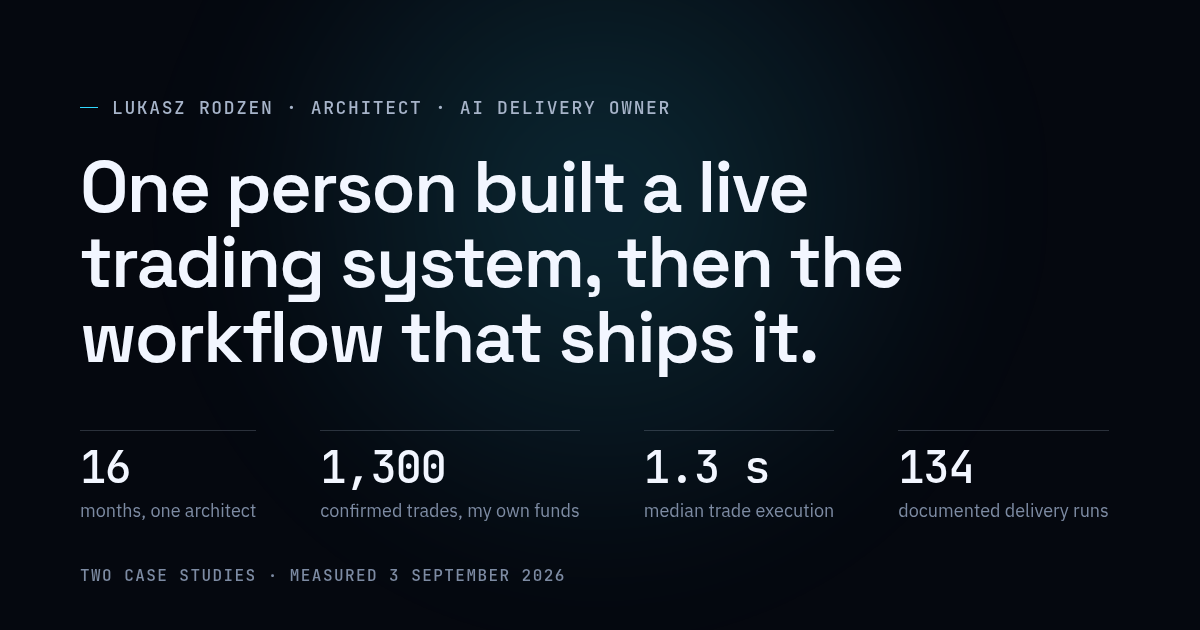
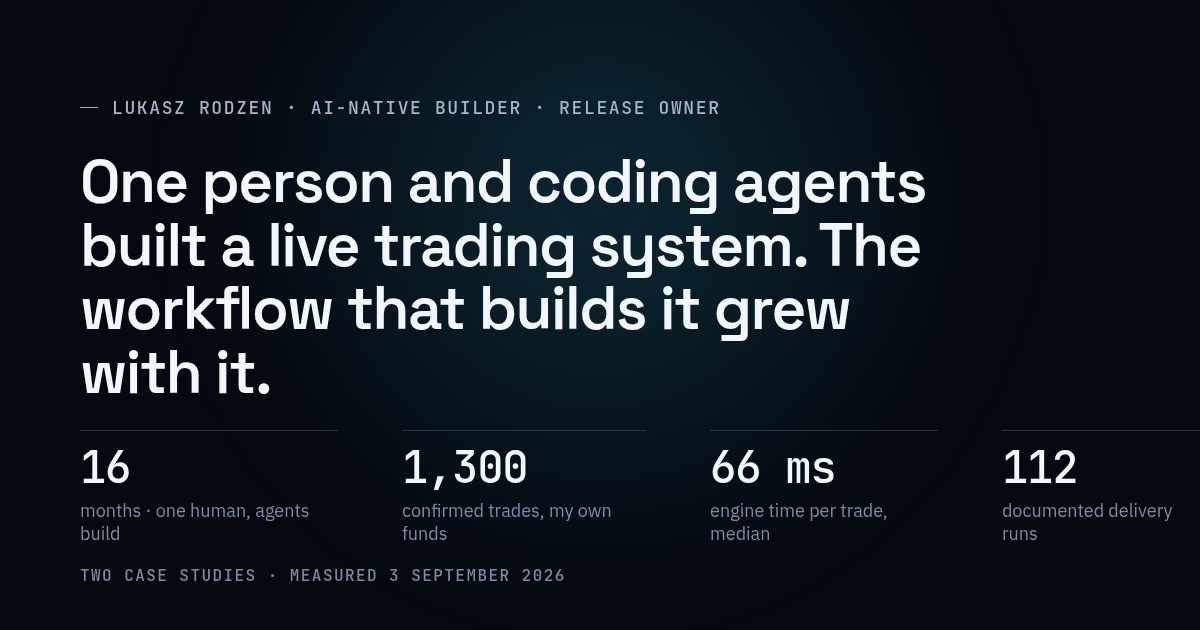
Landing: the workflow grew while building the system, not after; social card updated

diff --git a/index.html b/index.html
@@ -457,12 +457,12 @@ details.more .inner{grid-template-columns:1fr}
 .authorship .label{margin-bottom:.4rem}
 .authorship p{color:var(--ink-2);font-size:var(--fs-cap);line-height:1.55}
 </style></head><body class="land"><div class="ground"></div><a class="skip" href="#content">Skip to content</a><nav class="nav" aria-label="Primary"><div class="wrap"><a class="brand" href="index.html"><b>Lukasz Rodzen</b><span class="x"> · case studies</span></a>
-<div class="tabs"><a href="index.html" class="on" aria-label="Home" aria-current=page><span class="num">Home</span><span class="lbl"></span></a><a href="the-system.html" class="" aria-label="Case study 1: The system"><span class="num">01</span><span class="lbl">The system</span></a><a href="how-i-ship.html" class="" aria-label="Case study 2: How I ship"><span class="num">02</span><span class="lbl">How I ship</span></a></div></div><div class="bar"></div></nav><main id="content"><section class="hero"><div class="glow"></div><div class="wrap" data-stagger><div class="rv"><div class="kicker">AI-native builder · release owner · Poland, remote</div></div><h1 class="rv">One person and coding agents built a live trading system, then the workflow that ships it.</h1><p class="lead rv">I designed and operate an automated trading system that runs on Solana with my own funds, and the AI delivery workflow that ships every change to it. Two case studies: one for product and engineering readers, one for anyone hiring AI-native builders.</p><p class="cap rv" style="margin-top:1rem">Personal engineering project. It trades only my own funds: no client assets, no investment service, no advice.</p>
+<div class="tabs"><a href="index.html" class="on" aria-label="Home" aria-current=page><span class="num">Home</span><span class="lbl"></span></a><a href="the-system.html" class="" aria-label="Case study 1: The system"><span class="num">01</span><span class="lbl">The system</span></a><a href="how-i-ship.html" class="" aria-label="Case study 2: How I ship"><span class="num">02</span><span class="lbl">How I ship</span></a></div></div><div class="bar"></div></nav><main id="content"><section class="hero"><div class="glow"></div><div class="wrap" data-stagger><div class="rv"><div class="kicker">AI-native builder · release owner · Poland, remote</div></div><h1 class="rv">One person and coding agents built a live trading system. The workflow that builds it grew with it.</h1><p class="lead rv">I operate an automated trading system on Solana with my own funds. Coding agents built it through a delivery workflow that started as a nine-line file and grew, run by run and failure by failure, into a system of its own. Two case studies: the product, and the workflow.</p><p class="cap rv" style="margin-top:1rem">Personal engineering project. It trades only my own funds: no client assets, no investment service, no advice.</p>
 <div class="stats hero-stats rv" style="margin-top:2rem"><div class="stat"><span class="n">16</span><span class="l">months · one human, agents build</span></div><div class="stat"><span class="n">1,300</span><span class="l">confirmed trades, my own funds</span></div><div class="stat"><span class="n">66 ms</span><span class="l">engine time per trade, median</span></div><div class="stat"><span class="n">112</span><span class="l">documented delivery runs</span></div></div>
 <div class="actions rv"><a class="btn primary" href="the-system.html">01 · The system <span class="a">→</span></a><a class="btn" href="how-i-ship.html">02 · How I ship <span class="a">→</span></a></div>
 <div class="authorship rv"><div class="label">A note on authorship</div><p>I am not a backend, Rust or smart-contract engineer and do not represent myself as one. I define what the system must do, its boundaries and acceptance criteria; I direct coding agents through research, design, implementation and review; I validate the resulting behaviour and own the release decision. The implementation-level expertise described below is substantially agent-mediated.</p></div></div></section>
 <section class="sec"><div class="wrap"><div class="who rv"><div><div class="name">Lukasz Rodzen</div><div class="role">product owner · release owner · operator</div><div class="contact">Poland · remote</div></div><p>I own the product intent, the system boundaries and constraints, the acceptance criteria, the release decision and production verification. AI agents provide much of the implementation-level technical depth: they research, propose designs, write the code and review one another independently. I resolve their disagreements through evidence and decide what ships. I do not claim the unaided technical depth of a senior backend or Rust engineer.</p></div><details class="more rv"><summary><span class="def">Populations and dates</span><span class="alt">Show less</span><span class="c" aria-hidden="true"></span></summary><div class="dbody"><div><div class="inner"><p class="fn rv">A trade here is one position. 2,843 on-chain signatures stand behind the 1,300 positions, 1,685 buy legs and 1,158 sell legs, because a position can close in several legs. Engine time is the engine&#x27;s own work per trade, from price quote to submitted transaction; 66 ms is the median across the 1,228 buys with stage timings, 90% of them under 200 ms. From signal to confirmation on chain the median is 1.3 s, most of it the blockchain&#x27;s own confirmation (625 ms median) and the message&#x27;s delivery from Telegram. Runs from 26 March to 1 September 2026, numbered 1 to 134. Measured 3 September 2026.</p></div></div></div></details></div></section>
-<section class="sec"><div class="wrap"><div class="pick" data-stagger><a class="card rv" href="the-system.html"><div class="banner mini rv"><svg viewBox="0 0 560 120" xmlns="http://www.w3.org/2000/svg" role="img" aria-label="Signals to a capped on-chain trade"><defs><linearGradient id="msw" gradientUnits="userSpaceOnUse" x1="0" y1="0" x2="560" y2="0"><stop offset="0" stop-color="#a877ff"/><stop offset=".55" stop-color="#31d9ff"/><stop offset="1" stop-color="#58e7ad"/></linearGradient><linearGradient id="msh" gradientUnits="userSpaceOnUse" x1="0" y1="0" x2="560" y2="0"><stop offset="0" stop-color="#a877ff" stop-opacity=".7"/><stop offset=".5" stop-color="#31d9ff" stop-opacity=".8"/><stop offset="1" stop-color="#58e7ad" stop-opacity=".6"/></linearGradient><radialGradient id="msg"><stop offset="0" stop-color="#31d9ff" stop-opacity=".22"/><stop offset="1" stop-color="#31d9ff" stop-opacity="0"/></radialGradient><radialGradient id="msgv"><stop offset="0" stop-color="#a877ff" stop-opacity=".18"/><stop offset="1" stop-color="#a877ff" stop-opacity="0"/></radialGradient><filter id="msb" x="-50%" y="-50%" width="200%" height="200%"><feGaussianBlur stdDeviation="4"/></filter><pattern id="msd" width="24" height="24" patternUnits="userSpaceOnUse"><circle cx="1" cy="1" r=".8" fill="#a7b4c9" fill-opacity=".16"/></pattern></defs><rect width="560" height="120" fill="url(#msd)"/><circle cx="112" cy="60" r="108" fill="url(#msgv)"/><circle cx="476" cy="60" r="108" fill="url(#msg)"/><rect x="20" y="50" width="76" height="20" rx="10" fill="#0b1220" fill-opacity=".9" stroke="#a877ff" stroke-opacity=".45"/><text x="58" y="63.5" text-anchor="middle" font-size="9.5" letter-spacing="1" fill="#a877ff" font-family="JetBrains Mono,monospace">SIGNALS</text><polyline points="96,60 140,60" fill="none" stroke="url(#msw)" stroke-width="4.5" stroke-opacity=".18" filter="url(#msb)" stroke-linejoin="round"/><polyline points="96,60 140,60" fill="none" stroke="url(#msw)" stroke-width="1.5" stroke-linejoin="round"/><rect x="140" y="32" width="130" height="56" rx="10" fill="#0b1220" fill-opacity=".92" stroke="url(#msh)" stroke-opacity=".75"/><rect x="152" y="32" width="106" height="1" fill="#31d9ff" fill-opacity=".9"/><text x="154" y="54" font-size="11" font-weight="500" fill="#f2f6ff" font-family="IBM Plex Sans,sans-serif">Two servers</text><text x="154" y="70" font-size="9.5" fill="#7d8ba3" font-family="JetBrains Mono,monospace">Python · Rust</text><polyline points="270,60 312,60" fill="none" stroke="url(#msw)" stroke-width="4.5" stroke-opacity=".18" filter="url(#msb)" stroke-linejoin="round"/><polyline points="270,60 312,60" fill="none" stroke="url(#msw)" stroke-width="1.5" stroke-linejoin="round"/><rect x="312" y="32" width="120" height="56" rx="10" fill="#0b1220" fill-opacity=".92" stroke="url(#msh)" stroke-opacity=".75"/><rect x="324" y="32" width="96" height="1" fill="#31d9ff" fill-opacity=".9"/><text x="326" y="54" font-size="11" font-weight="500" fill="#f2f6ff" font-family="IBM Plex Sans,sans-serif">Rust engine</text><text x="326" y="70" font-size="9.5" fill="#7d8ba3" font-family="JetBrains Mono,monospace">66 ms</text><polyline points="432,60 470,60" fill="none" stroke="url(#msw)" stroke-width="4.5" stroke-opacity=".18" filter="url(#msb)" stroke-linejoin="round"/><polyline points="432,60 470,60" fill="none" stroke="url(#msw)" stroke-width="1.5" stroke-linejoin="round"/><rect x="470" y="32" width="72" height="56" rx="10" fill="#0b1220" fill-opacity=".92" stroke="url(#msh)" stroke-opacity=".75"/><rect x="482" y="32" width="48" height="1" fill="#58e7ad" fill-opacity=".9"/><text x="484" y="54" font-size="11" font-weight="500" fill="#f2f6ff" font-family="IBM Plex Sans,sans-serif">Solana</text><text x="484" y="70" font-size="9.5" fill="#7d8ba3" font-family="JetBrains Mono,monospace">capped</text></svg></div><div class="label">Case study 01 · for product and engineering readers</div><h2>The system</h2><p>A production system that turns public market signals into capped, auditable on-chain trades, with my own funds only: 66 ms of engine time per trade, about 1.3 seconds from signal to confirmation. Two servers, a custom Rust engine, and on-chain limits a trading key cannot bypass.</p><div class="nums"><div><span class="n">66 ms</span><span class="l">engine time per trade, median</span></div><div><span class="n">2,843</span><span class="l">on-chain signatures, verifiable</span></div></div><span class="arrow">Open case study 1 <span class="a">→</span></span></a><a class="card rv" href="how-i-ship.html"><div class="banner mini rv"><svg viewBox="0 0 560 120" xmlns="http://www.w3.org/2000/svg" role="img" aria-label="Six stages, three of them my decision"><defs><linearGradient id="mlw" gradientUnits="userSpaceOnUse" x1="0" y1="0" x2="560" y2="0"><stop offset="0" stop-color="#a877ff"/><stop offset=".55" stop-color="#31d9ff"/><stop offset="1" stop-color="#58e7ad"/></linearGradient><linearGradient id="mlh" gradientUnits="userSpaceOnUse" x1="0" y1="0" x2="560" y2="0"><stop offset="0" stop-color="#a877ff" stop-opacity=".7"/><stop offset=".5" stop-color="#31d9ff" stop-opacity=".8"/><stop offset="1" stop-color="#58e7ad" stop-opacity=".6"/></linearGradient><radialGradient id="mlg"><stop offset="0" stop-color="#31d9ff" stop-opacity=".22"/><stop offset="1" stop-color="#31d9ff" stop-opacity="0"/></radialGradient><radialGradient id="mlgv"><stop offset="0" stop-color="#a877ff" stop-opacity=".18"/><stop offset="1" stop-color="#a877ff" stop-opacity="0"/></radialGradient><filter id="mlb" x="-50%" y="-50%" width="200%" height="200%"><feGaussianBlur stdDeviation="4"/></filter><pattern id="mld" width="24" height="24" patternUnits="userSpaceOnUse"><circle cx="1" cy="1" r=".8" fill="#a7b4c9" fill-opacity=".16"/></pattern></defs><rect width="560" height="120" fill="url(#mld)"/><circle cx="280" cy="60" r="108" fill="url(#mlg)"/><polyline points="60,60 500,60" fill="none" stroke="url(#mlw)" stroke-width="4.5" stroke-opacity=".18" filter="url(#mlb)" stroke-linejoin="round"/><polyline points="60,60 500,60" fill="none" stroke="url(#mlw)" stroke-width="1.5" stroke-linejoin="round"/><circle cx="60" cy="60" r="4" fill="#05080f" stroke="#a7b4c9" stroke-width="1.5"/><text x="60" y="86" text-anchor="middle" font-size="8.5" letter-spacing="1" fill="#7d8ba3" font-family="JetBrains Mono,monospace">UNDERSTAND</text><circle cx="148" cy="60" r="10.8" fill="#31d9ff" fill-opacity=".28" filter="url(#mlb)"/><circle cx="148" cy="60" r="4.5" fill="#31d9ff"/><text x="148" y="86" text-anchor="middle" font-size="8.5" letter-spacing="1" fill="#31d9ff" font-family="JetBrains Mono,monospace">ROUTE</text><circle cx="236" cy="60" r="4" fill="#05080f" stroke="#a7b4c9" stroke-width="1.5"/><text x="236" y="86" text-anchor="middle" font-size="8.5" letter-spacing="1" fill="#7d8ba3" font-family="JetBrains Mono,monospace">PLAN</text><circle cx="324" cy="60" r="10.8" fill="#31d9ff" fill-opacity=".28" filter="url(#mlb)"/><circle cx="324" cy="60" r="4.5" fill="#31d9ff"/><text x="324" y="86" text-anchor="middle" font-size="8.5" letter-spacing="1" fill="#31d9ff" font-family="JetBrains Mono,monospace">BUILD</text><circle cx="412" cy="60" r="4" fill="#05080f" stroke="#a7b4c9" stroke-width="1.5"/><text x="412" y="86" text-anchor="middle" font-size="8.5" letter-spacing="1" fill="#7d8ba3" font-family="JetBrains Mono,monospace">REVIEW</text><circle cx="500" cy="60" r="10.8" fill="#31d9ff" fill-opacity=".28" filter="url(#mlb)"/><circle cx="500" cy="60" r="4.5" fill="#31d9ff"/><text x="500" y="86" text-anchor="middle" font-size="8.5" letter-spacing="1" fill="#31d9ff" font-family="JetBrains Mono,monospace">DECIDE</text><text x="60" y="30" text-anchor="start" font-size="8.5" letter-spacing="1" fill="#7d8ba3" font-family="JetBrains Mono,monospace">THREE DECISIONS ARE MINE</text></svg></div><div class="label">Case study 02 · for anyone hiring AI-native builders</div><h2>How I ship</h2><p>One AI coordinates the job; specialist agents research, plan, build and test it; models from two other vendors challenge the work before anything risky ships. Ten phases, 62 steps, 34 gates, and a memory loop that turns failures into rules, across 112 documented runs.</p><div class="nums"><div><span class="n">112</span><span class="l">documented runs</span></div><div><span class="n">3</span><span class="l">AI vendors on every review</span></div></div><span class="arrow">Open case study 2 <span class="a">→</span></span></a></div></div></section></main><footer class="foot"><div class="wrap"><p>Specified, reviewed and released by Lukasz Rodzen. Implemented by AI models under the delivery workflow in case study 2. Numbers measured on the production system, the run archive and git, 3 September 2026. Replay and simulation figures are analytical outputs, not returns.</p><p>Poland · remote · 2026</p></div></footer><script>
+<section class="sec"><div class="wrap"><div class="pick" data-stagger><a class="card rv" href="the-system.html"><div class="banner mini rv"><svg viewBox="0 0 560 120" xmlns="http://www.w3.org/2000/svg" role="img" aria-label="Signals to a capped on-chain trade"><defs><linearGradient id="msw" gradientUnits="userSpaceOnUse" x1="0" y1="0" x2="560" y2="0"><stop offset="0" stop-color="#a877ff"/><stop offset=".55" stop-color="#31d9ff"/><stop offset="1" stop-color="#58e7ad"/></linearGradient><linearGradient id="msh" gradientUnits="userSpaceOnUse" x1="0" y1="0" x2="560" y2="0"><stop offset="0" stop-color="#a877ff" stop-opacity=".7"/><stop offset=".5" stop-color="#31d9ff" stop-opacity=".8"/><stop offset="1" stop-color="#58e7ad" stop-opacity=".6"/></linearGradient><radialGradient id="msg"><stop offset="0" stop-color="#31d9ff" stop-opacity=".22"/><stop offset="1" stop-color="#31d9ff" stop-opacity="0"/></radialGradient><radialGradient id="msgv"><stop offset="0" stop-color="#a877ff" stop-opacity=".18"/><stop offset="1" stop-color="#a877ff" stop-opacity="0"/></radialGradient><filter id="msb" x="-50%" y="-50%" width="200%" height="200%"><feGaussianBlur stdDeviation="4"/></filter><pattern id="msd" width="24" height="24" patternUnits="userSpaceOnUse"><circle cx="1" cy="1" r=".8" fill="#a7b4c9" fill-opacity=".16"/></pattern></defs><rect width="560" height="120" fill="url(#msd)"/><circle cx="112" cy="60" r="108" fill="url(#msgv)"/><circle cx="476" cy="60" r="108" fill="url(#msg)"/><rect x="20" y="50" width="76" height="20" rx="10" fill="#0b1220" fill-opacity=".9" stroke="#a877ff" stroke-opacity=".45"/><text x="58" y="63.5" text-anchor="middle" font-size="9.5" letter-spacing="1" fill="#a877ff" font-family="JetBrains Mono,monospace">SIGNALS</text><polyline points="96,60 140,60" fill="none" stroke="url(#msw)" stroke-width="4.5" stroke-opacity=".18" filter="url(#msb)" stroke-linejoin="round"/><polyline points="96,60 140,60" fill="none" stroke="url(#msw)" stroke-width="1.5" stroke-linejoin="round"/><rect x="140" y="32" width="130" height="56" rx="10" fill="#0b1220" fill-opacity=".92" stroke="url(#msh)" stroke-opacity=".75"/><rect x="152" y="32" width="106" height="1" fill="#31d9ff" fill-opacity=".9"/><text x="154" y="54" font-size="11" font-weight="500" fill="#f2f6ff" font-family="IBM Plex Sans,sans-serif">Two servers</text><text x="154" y="70" font-size="9.5" fill="#7d8ba3" font-family="JetBrains Mono,monospace">Python · Rust</text><polyline points="270,60 312,60" fill="none" stroke="url(#msw)" stroke-width="4.5" stroke-opacity=".18" filter="url(#msb)" stroke-linejoin="round"/><polyline points="270,60 312,60" fill="none" stroke="url(#msw)" stroke-width="1.5" stroke-linejoin="round"/><rect x="312" y="32" width="120" height="56" rx="10" fill="#0b1220" fill-opacity=".92" stroke="url(#msh)" stroke-opacity=".75"/><rect x="324" y="32" width="96" height="1" fill="#31d9ff" fill-opacity=".9"/><text x="326" y="54" font-size="11" font-weight="500" fill="#f2f6ff" font-family="IBM Plex Sans,sans-serif">Rust engine</text><text x="326" y="70" font-size="9.5" fill="#7d8ba3" font-family="JetBrains Mono,monospace">66 ms</text><polyline points="432,60 470,60" fill="none" stroke="url(#msw)" stroke-width="4.5" stroke-opacity=".18" filter="url(#msb)" stroke-linejoin="round"/><polyline points="432,60 470,60" fill="none" stroke="url(#msw)" stroke-width="1.5" stroke-linejoin="round"/><rect x="470" y="32" width="72" height="56" rx="10" fill="#0b1220" fill-opacity=".92" stroke="url(#msh)" stroke-opacity=".75"/><rect x="482" y="32" width="48" height="1" fill="#58e7ad" fill-opacity=".9"/><text x="484" y="54" font-size="11" font-weight="500" fill="#f2f6ff" font-family="IBM Plex Sans,sans-serif">Solana</text><text x="484" y="70" font-size="9.5" fill="#7d8ba3" font-family="JetBrains Mono,monospace">capped</text></svg></div><div class="label">Case study 01 · the product, for product and engineering readers</div><h2>The system</h2><p>A production system that turns public market signals into capped, auditable on-chain trades, with my own funds only: 66 ms of engine time per trade, about 1.3 seconds from signal to confirmation. Two servers, a custom Rust engine, and on-chain limits a trading key cannot bypass.</p><div class="nums"><div><span class="n">66 ms</span><span class="l">engine time per trade, median</span></div><div><span class="n">2,843</span><span class="l">on-chain signatures, verifiable</span></div></div><span class="arrow">Open case study 1 <span class="a">→</span></span></a><a class="card rv" href="how-i-ship.html"><div class="banner mini rv"><svg viewBox="0 0 560 120" xmlns="http://www.w3.org/2000/svg" role="img" aria-label="Six stages, three of them my decision"><defs><linearGradient id="mlw" gradientUnits="userSpaceOnUse" x1="0" y1="0" x2="560" y2="0"><stop offset="0" stop-color="#a877ff"/><stop offset=".55" stop-color="#31d9ff"/><stop offset="1" stop-color="#58e7ad"/></linearGradient><linearGradient id="mlh" gradientUnits="userSpaceOnUse" x1="0" y1="0" x2="560" y2="0"><stop offset="0" stop-color="#a877ff" stop-opacity=".7"/><stop offset=".5" stop-color="#31d9ff" stop-opacity=".8"/><stop offset="1" stop-color="#58e7ad" stop-opacity=".6"/></linearGradient><radialGradient id="mlg"><stop offset="0" stop-color="#31d9ff" stop-opacity=".22"/><stop offset="1" stop-color="#31d9ff" stop-opacity="0"/></radialGradient><radialGradient id="mlgv"><stop offset="0" stop-color="#a877ff" stop-opacity=".18"/><stop offset="1" stop-color="#a877ff" stop-opacity="0"/></radialGradient><filter id="mlb" x="-50%" y="-50%" width="200%" height="200%"><feGaussianBlur stdDeviation="4"/></filter><pattern id="mld" width="24" height="24" patternUnits="userSpaceOnUse"><circle cx="1" cy="1" r=".8" fill="#a7b4c9" fill-opacity=".16"/></pattern></defs><rect width="560" height="120" fill="url(#mld)"/><circle cx="280" cy="60" r="108" fill="url(#mlg)"/><polyline points="60,60 500,60" fill="none" stroke="url(#mlw)" stroke-width="4.5" stroke-opacity=".18" filter="url(#mlb)" stroke-linejoin="round"/><polyline points="60,60 500,60" fill="none" stroke="url(#mlw)" stroke-width="1.5" stroke-linejoin="round"/><circle cx="60" cy="60" r="4" fill="#05080f" stroke="#a7b4c9" stroke-width="1.5"/><text x="60" y="86" text-anchor="middle" font-size="8.5" letter-spacing="1" fill="#7d8ba3" font-family="JetBrains Mono,monospace">UNDERSTAND</text><circle cx="148" cy="60" r="10.8" fill="#31d9ff" fill-opacity=".28" filter="url(#mlb)"/><circle cx="148" cy="60" r="4.5" fill="#31d9ff"/><text x="148" y="86" text-anchor="middle" font-size="8.5" letter-spacing="1" fill="#31d9ff" font-family="JetBrains Mono,monospace">ROUTE</text><circle cx="236" cy="60" r="4" fill="#05080f" stroke="#a7b4c9" stroke-width="1.5"/><text x="236" y="86" text-anchor="middle" font-size="8.5" letter-spacing="1" fill="#7d8ba3" font-family="JetBrains Mono,monospace">PLAN</text><circle cx="324" cy="60" r="10.8" fill="#31d9ff" fill-opacity=".28" filter="url(#mlb)"/><circle cx="324" cy="60" r="4.5" fill="#31d9ff"/><text x="324" y="86" text-anchor="middle" font-size="8.5" letter-spacing="1" fill="#31d9ff" font-family="JetBrains Mono,monospace">BUILD</text><circle cx="412" cy="60" r="4" fill="#05080f" stroke="#a7b4c9" stroke-width="1.5"/><text x="412" y="86" text-anchor="middle" font-size="8.5" letter-spacing="1" fill="#7d8ba3" font-family="JetBrains Mono,monospace">REVIEW</text><circle cx="500" cy="60" r="10.8" fill="#31d9ff" fill-opacity=".28" filter="url(#mlb)"/><circle cx="500" cy="60" r="4.5" fill="#31d9ff"/><text x="500" y="86" text-anchor="middle" font-size="8.5" letter-spacing="1" fill="#31d9ff" font-family="JetBrains Mono,monospace">DECIDE</text><text x="60" y="30" text-anchor="start" font-size="8.5" letter-spacing="1" fill="#7d8ba3" font-family="JetBrains Mono,monospace">THREE DECISIONS ARE MINE</text></svg></div><div class="label">Case study 02 · the workflow, for anyone hiring AI-native builders</div><h2>How I ship</h2><p>One AI coordinates the job; specialist agents research, plan, build and test it; models from two other vendors challenge the work before anything risky ships. Ten phases, 62 steps, 34 gates, and a memory loop that turns failures into rules, across 112 documented runs.</p><div class="nums"><div><span class="n">112</span><span class="l">documented runs</span></div><div><span class="n">3</span><span class="l">AI vendors on every review</span></div></div><span class="arrow">Open case study 2 <span class="a">→</span></span></a></div></div></section></main><footer class="foot"><div class="wrap"><p>Specified, reviewed and released by Lukasz Rodzen. Implemented by AI models under the delivery workflow in case study 2. Numbers measured on the production system, the run archive and git, 3 September 2026. Replay and simulation figures are analytical outputs, not returns.</p><p>Poland · remote · 2026</p></div></footer><script>
 document.documentElement.classList.add('js');
 (function(){
   var RM = matchMedia('(prefers-reduced-motion: reduce)').matches;

diff --git a/src/og.html b/src/og.html
@@ -2,10 +2,10 @@
 <style>body{margin:0;width:1200px;height:630px;background:#05080f;color:#f2f6ff;font-family:"IBM Plex Sans",sans-serif;position:relative;overflow:hidden}
 .g{position:absolute;left:50%;top:-40%;width:900px;height:900px;transform:translateX(-50%);background:radial-gradient(circle,rgba(49,217,255,.16),transparent 62%);filter:blur(60px)}
 .k{position:absolute;left:80px;top:96px;font:500 18px "JetBrains Mono",monospace;letter-spacing:.09em;text-transform:uppercase;color:#a7b4c9;display:flex;gap:14px;align-items:center}.k::before{content:"";width:18px;height:1px;background:#31d9ff}
-h1{position:absolute;left:80px;top:150px;margin:0;width:900px;font:600 72px/1.04 "Space Grotesk",sans-serif;letter-spacing:-.025em}
+h1{position:absolute;left:80px;top:150px;margin:0;width:900px;font:600 60px/1.06 "Space Grotesk",sans-serif;letter-spacing:-.025em}
 .s{position:absolute;left:80px;top:430px;display:flex;gap:64px}.s div{border-top:1px solid rgba(167,180,201,.24);padding-top:14px}.s b{display:block;font:500 44px/1 "JetBrains Mono",monospace;letter-spacing:-.03em}.s span{display:block;margin-top:10px;font-size:18px;color:#7d8ba3}
 .f{position:absolute;left:80px;bottom:44px;font:500 16px "JetBrains Mono",monospace;letter-spacing:.09em;text-transform:uppercase;color:#7d8ba3}</style></head>
-<body><div class="g"></div><div class="k">Lukasz Rodzen · Architect · AI delivery owner</div>
-<h1>One person built a live trading system, then the workflow that ships it.</h1>
-<div class="s"><div><b>16</b><span>months, one architect</span></div><div><b>1,300</b><span>confirmed trades, my own funds</span></div><div><b>1.3 s</b><span>median trade execution</span></div><div><b>134</b><span>documented delivery runs</span></div></div>
+<body><div class="g"></div><div class="k">Lukasz Rodzen · AI-native builder · release owner</div>
+<h1>One person and coding agents built a live trading system. The workflow that builds it grew with it.</h1>
+<div class="s"><div><b>16</b><span>months · one human, agents build</span></div><div><b>1,300</b><span>confirmed trades, my own funds</span></div><div><b>66 ms</b><span>engine time per trade, median</span></div><div><b>112</b><span>documented delivery runs</span></div></div>
 <div class="f">Two case studies · measured 3 September 2026</div></body></html>

diff --git a/src/content.py b/src/content.py
@@ -15,18 +15,18 @@ BOUNDARY = ("And I will tell you where the boundary is: the changes I would not 
 
 LANDING = dict(
     kicker="AI-native builder · release owner · Poland, remote",
-    h1="One person and coding agents built a live trading system, then the workflow that ships it.",
-    lead=("I designed and operate an automated trading system that runs on Solana with my own funds, and the AI delivery workflow that ships every change to it. "
-          "Two case studies: one for product and engineering readers, one for anyone hiring AI-native builders."),
+    h1="One person and coding agents built a live trading system. The workflow that builds it grew with it.",
+    lead=("I operate an automated trading system on Solana with my own funds. Coding agents built it through a delivery workflow that started as a nine-line file "
+          "and grew, run by run and failure by failure, into a system of its own. Two case studies: the product, and the workflow."),
     boundary="Personal engineering project. It trades only my own funds: no client assets, no investment service, no advice.",
     stats=[("16", "months · one human, agents build"), ("1,300", "confirmed trades, my own funds"), ("66 ms", "engine time per trade, median"), ("112", "documented delivery runs")],
     fn="A trade here is one position. 2,843 on-chain signatures stand behind the 1,300 positions, 1,685 buy legs and 1,158 sell legs, because a position can close in several legs. Engine time is the engine's own work per trade, from price quote to submitted transaction; 66 ms is the median across the 1,228 buys with stage timings, 90% of them under 200 ms. From signal to confirmation on chain the median is 1.3 s, most of it the blockchain's own confirmation (625 ms median) and the message's delivery from Telegram. Runs from 26 March to 1 September 2026, numbered 1 to 134. Measured " + DATE + ".",
     cards=[
-        dict(n="01", title="The system", who="for product and engineering readers", href="the-system.html", accent="cyan",
+        dict(n="01", title="The system", who="the product, for product and engineering readers", href="the-system.html", accent="cyan",
              text=("A production system that turns public market signals into capped, auditable on-chain trades, with my own funds only: 66 ms of engine time per trade, about 1.3 seconds from signal to confirmation. "
                    "Two servers, a custom Rust engine, and on-chain limits a trading key cannot bypass."),
              nums=[("66 ms", "engine time per trade, median"), ("2,843", "on-chain signatures, verifiable")]),
-        dict(n="02", title="How I ship", who="for anyone hiring AI-native builders", href="how-i-ship.html", accent="green",
+        dict(n="02", title="How I ship", who="the workflow, for anyone hiring AI-native builders", href="how-i-ship.html", accent="green",
              text=("One AI coordinates the job; specialist agents research, plan, build and test it; models from two other vendors challenge the work before anything risky ships. "
                    "Ten phases, 62 steps, 34 gates, and a memory loop that turns failures into rules, across 112 documented runs."),
              nums=[("112", "documented runs"), ("3", "AI vendors on every review")]),
